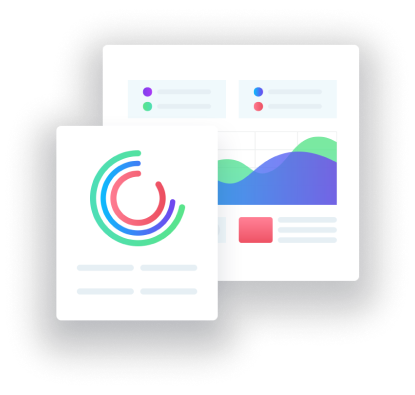
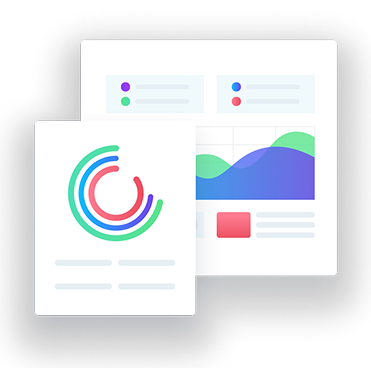
add join

diff --git a/css/styles.css b/css/styles.css
@@ -973,7 +973,7 @@ h3 {
     padding-top: 100px;
 }
 .join .container {    
-    width: 371px;
+    max-width: 371px;
     height: auto;
     border-radius: 32px;
     padding-top: 18px;
@@ -982,6 +982,13 @@ h3 {
     display: flex;
     flex-direction: column;
     align-items: center;
+}
+.join-title-list {
+    padding-bottom: 24px;
+    display: flex;
+    flex-direction: column;
+    justify-content: center;
+    gap: 104px;
 }
 .join-title {
     font-family: var(--font-family);
@@ -1004,7 +1011,7 @@ h3 {
     height: 50px;
     border: none;
     border-radius: 8px;
-    margin: 104px auto 32px auto;
+    margin: 0 auto;
     cursor: pointer;
 }
 .join-button:hover,
@@ -1012,16 +1019,37 @@ h3 {
     transform: scale(0.95);
     transition: transform 100ms;
 }
-.join .icon-pict {
-    width: 351px;
-    height: 331px;
-}
-.join img {
-    width: 351px;
-    height: 331px;
+.join-icon-pict {
+    width: 371px;
+    height: 351px;
 }
 @media screen and (min-width: 1110px) {
-    
+    .join {
+        padding-top: 100px;
+    }    
+    .join .container {
+        max-width: 968px;        
+        flex-direction: row;
+        justify-content: space-between;
+        align-items: center; 
+        padding-left: 56px;
+    }
+    .join-title-list {
+        padding: 0;
+        display: flex;
+        flex-direction: column;
+        justify-content: space-between; 
+        gap: 56px;
+    }
+    .join-title {        
+        width: 428px;
+        text-align: left;
+    }
+    .join-button {
+        width: 150px;
+        margin: 0;
+        color: var(--color-fonts);
+    }
 }
 
 /* #endregion Join 100 Compannies who boost their business with Product */

diff --git a/index.html b/index.html
@@ -519,11 +519,14 @@
       <!-- #region Join 100 Compannies who boost their business with Product -->
       <section class="join">
         <div class="container">
-          <h2 class="join-title">
-            Join 100 Compannies who boost their business with Product
-          </h2>
-          <button class="join-button" type="button">Get This</button>
+          <div class="join-title-list">
+            <h2 class="join-title">
+              Join 100 Compannies who boost their business with Product
+            </h2>
+            <button class="join-button" type="button">Get This</button>
+          </div>
           <img
+            class="join-icon-pict"
             srcset="./png/icon_join.png 1x, ./png/icon_join@2x.png 2x"
             src="./png/icon_join.png"
             alt="Join 100 Compannies who boost"
